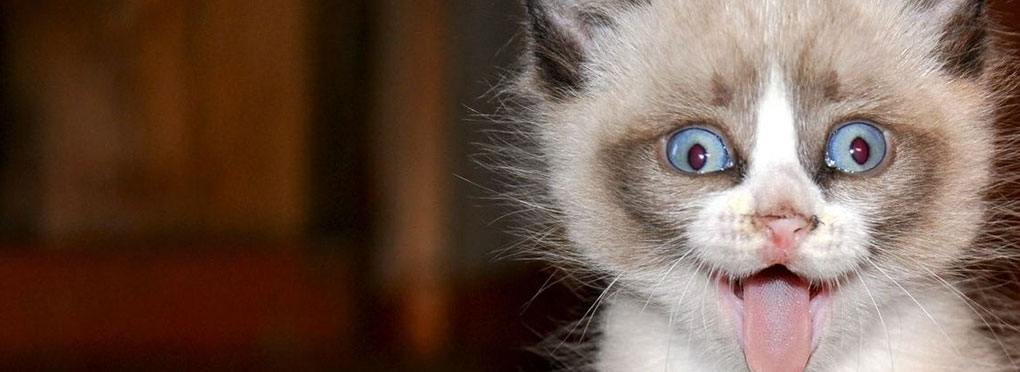
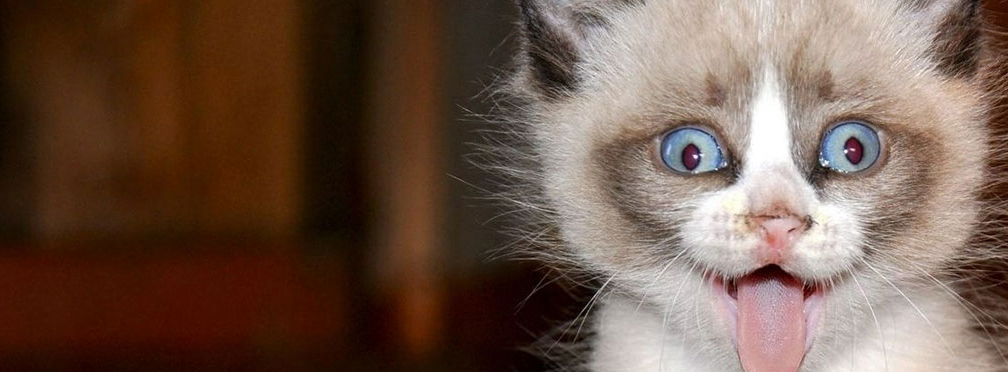
fix promo div

diff --git a/public/theme/css/main.css b/public/theme/css/main.css
@@ -380,8 +380,9 @@ ul {
 
   
   .promo{
-	margin-bottom: 20px;
+	margin: 0 0 20px -4px;
 	height: 372px;
+	width:1008px;
    }
   
    .promo img{
